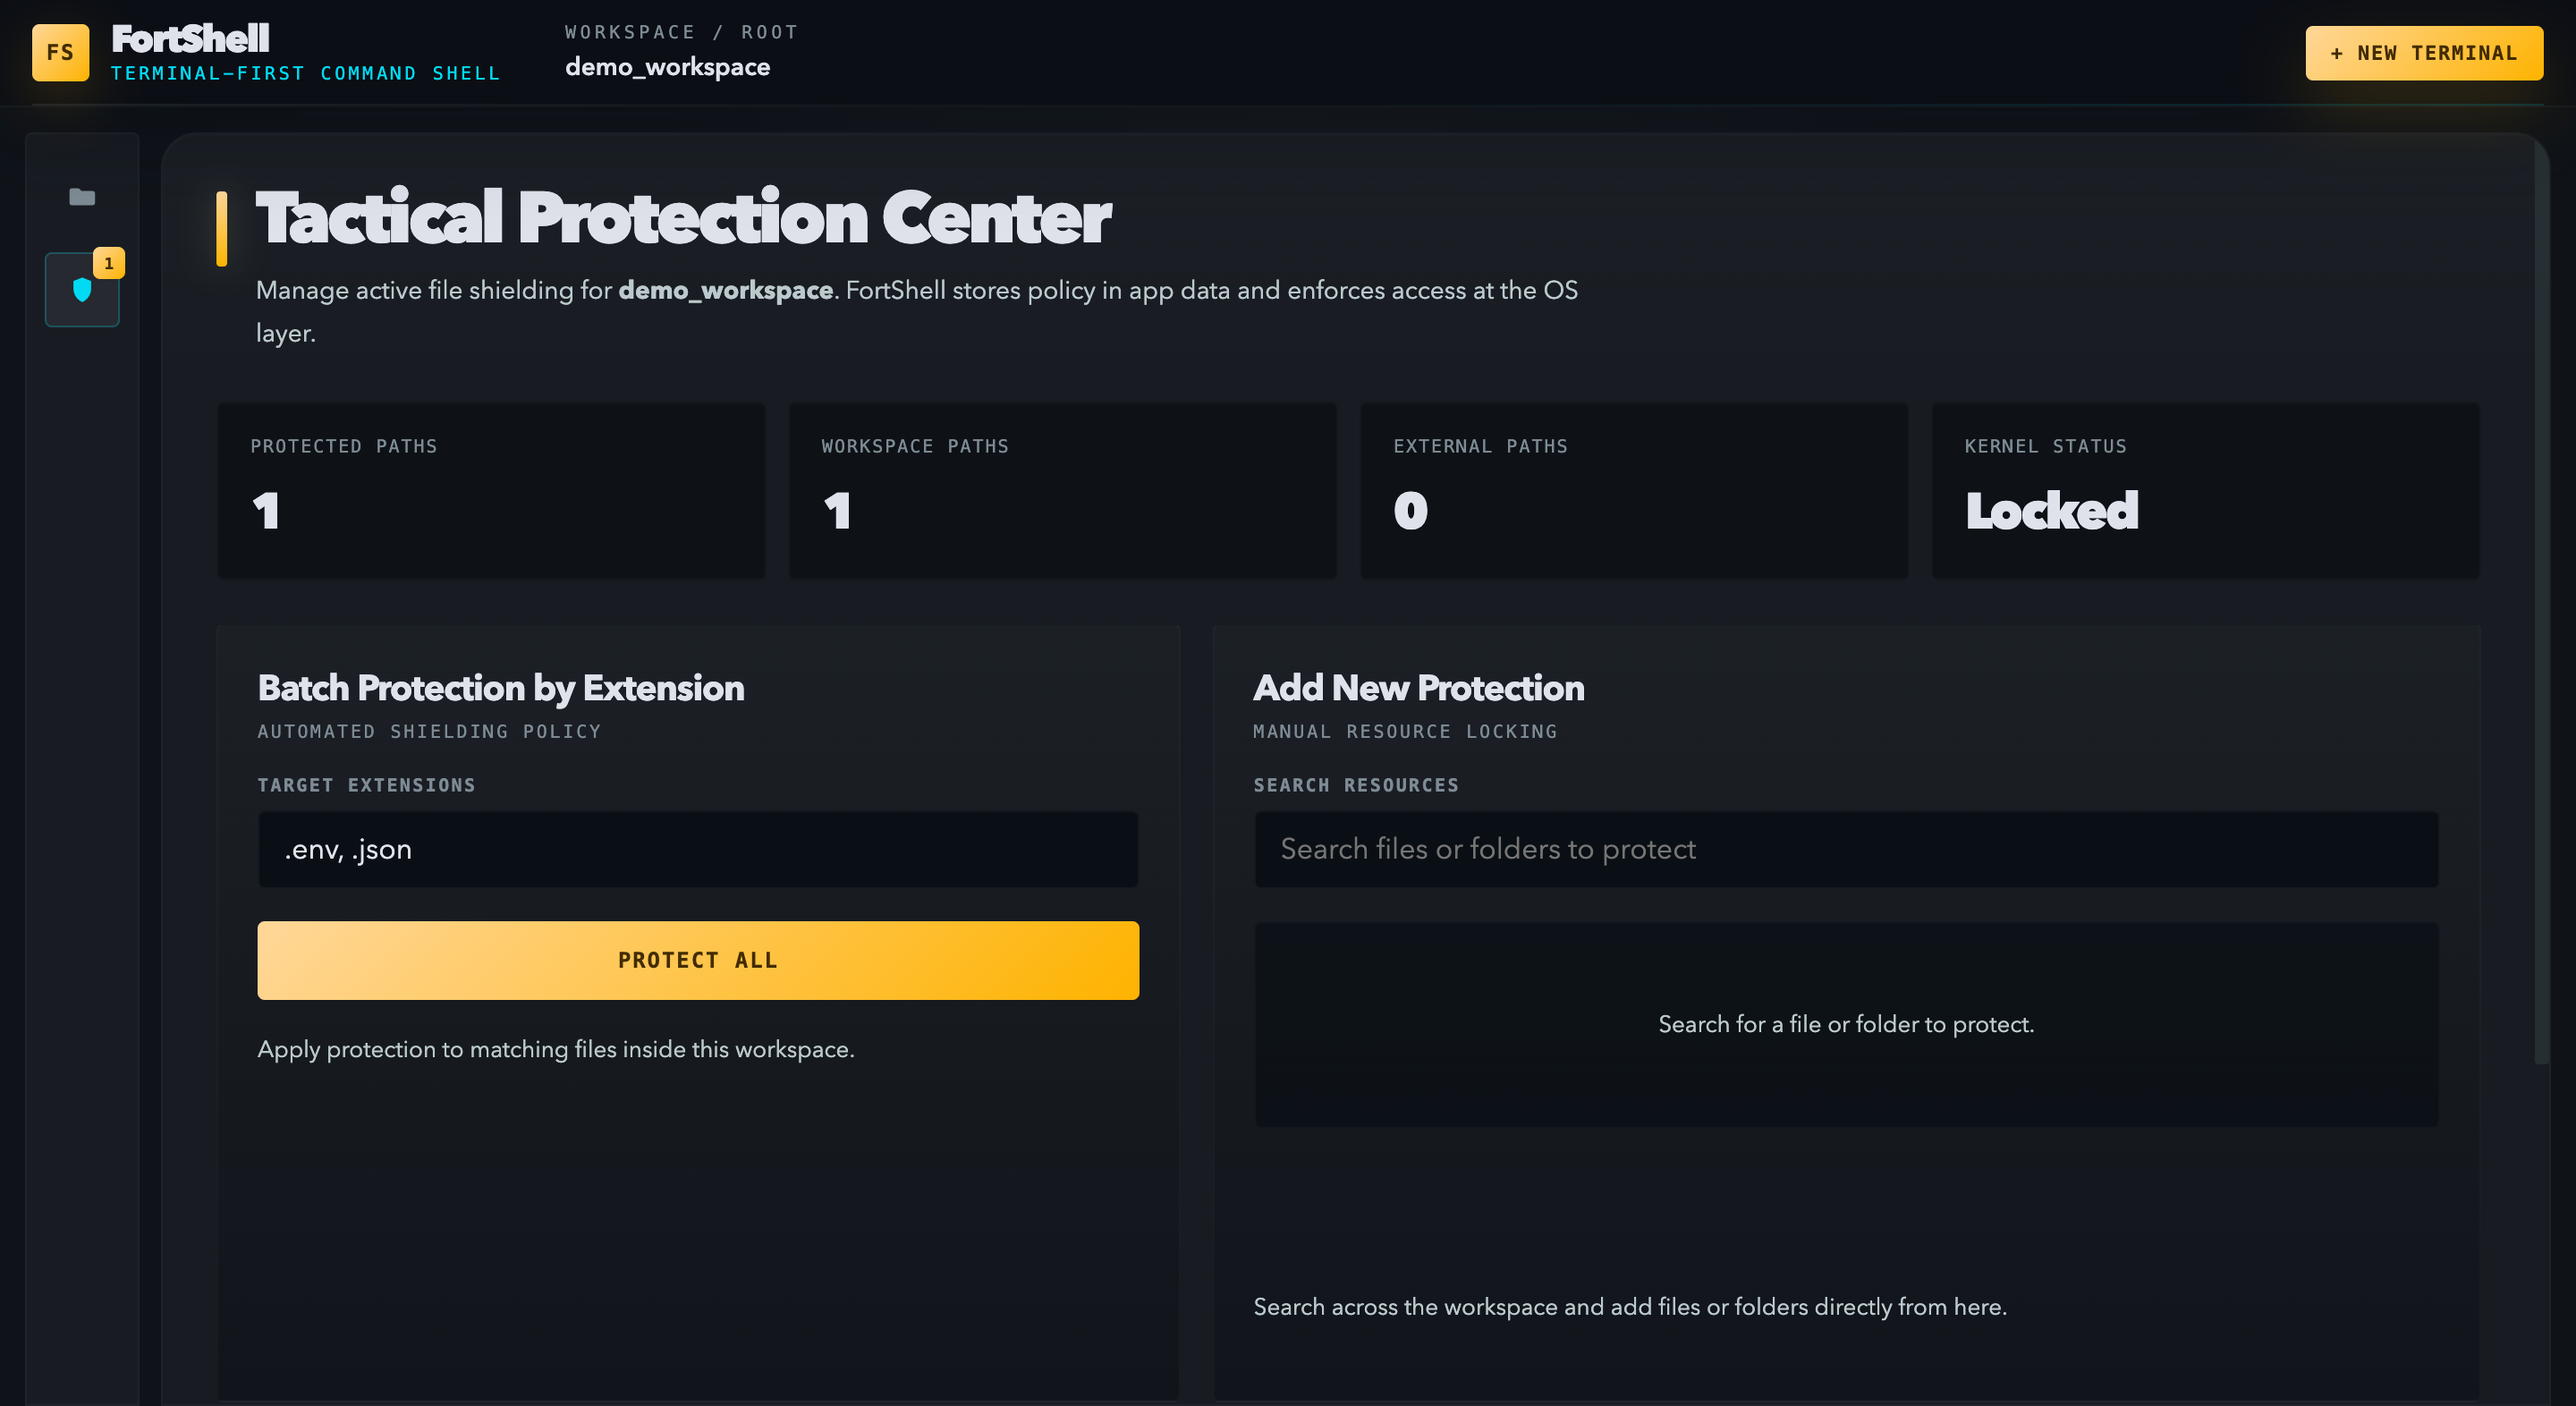
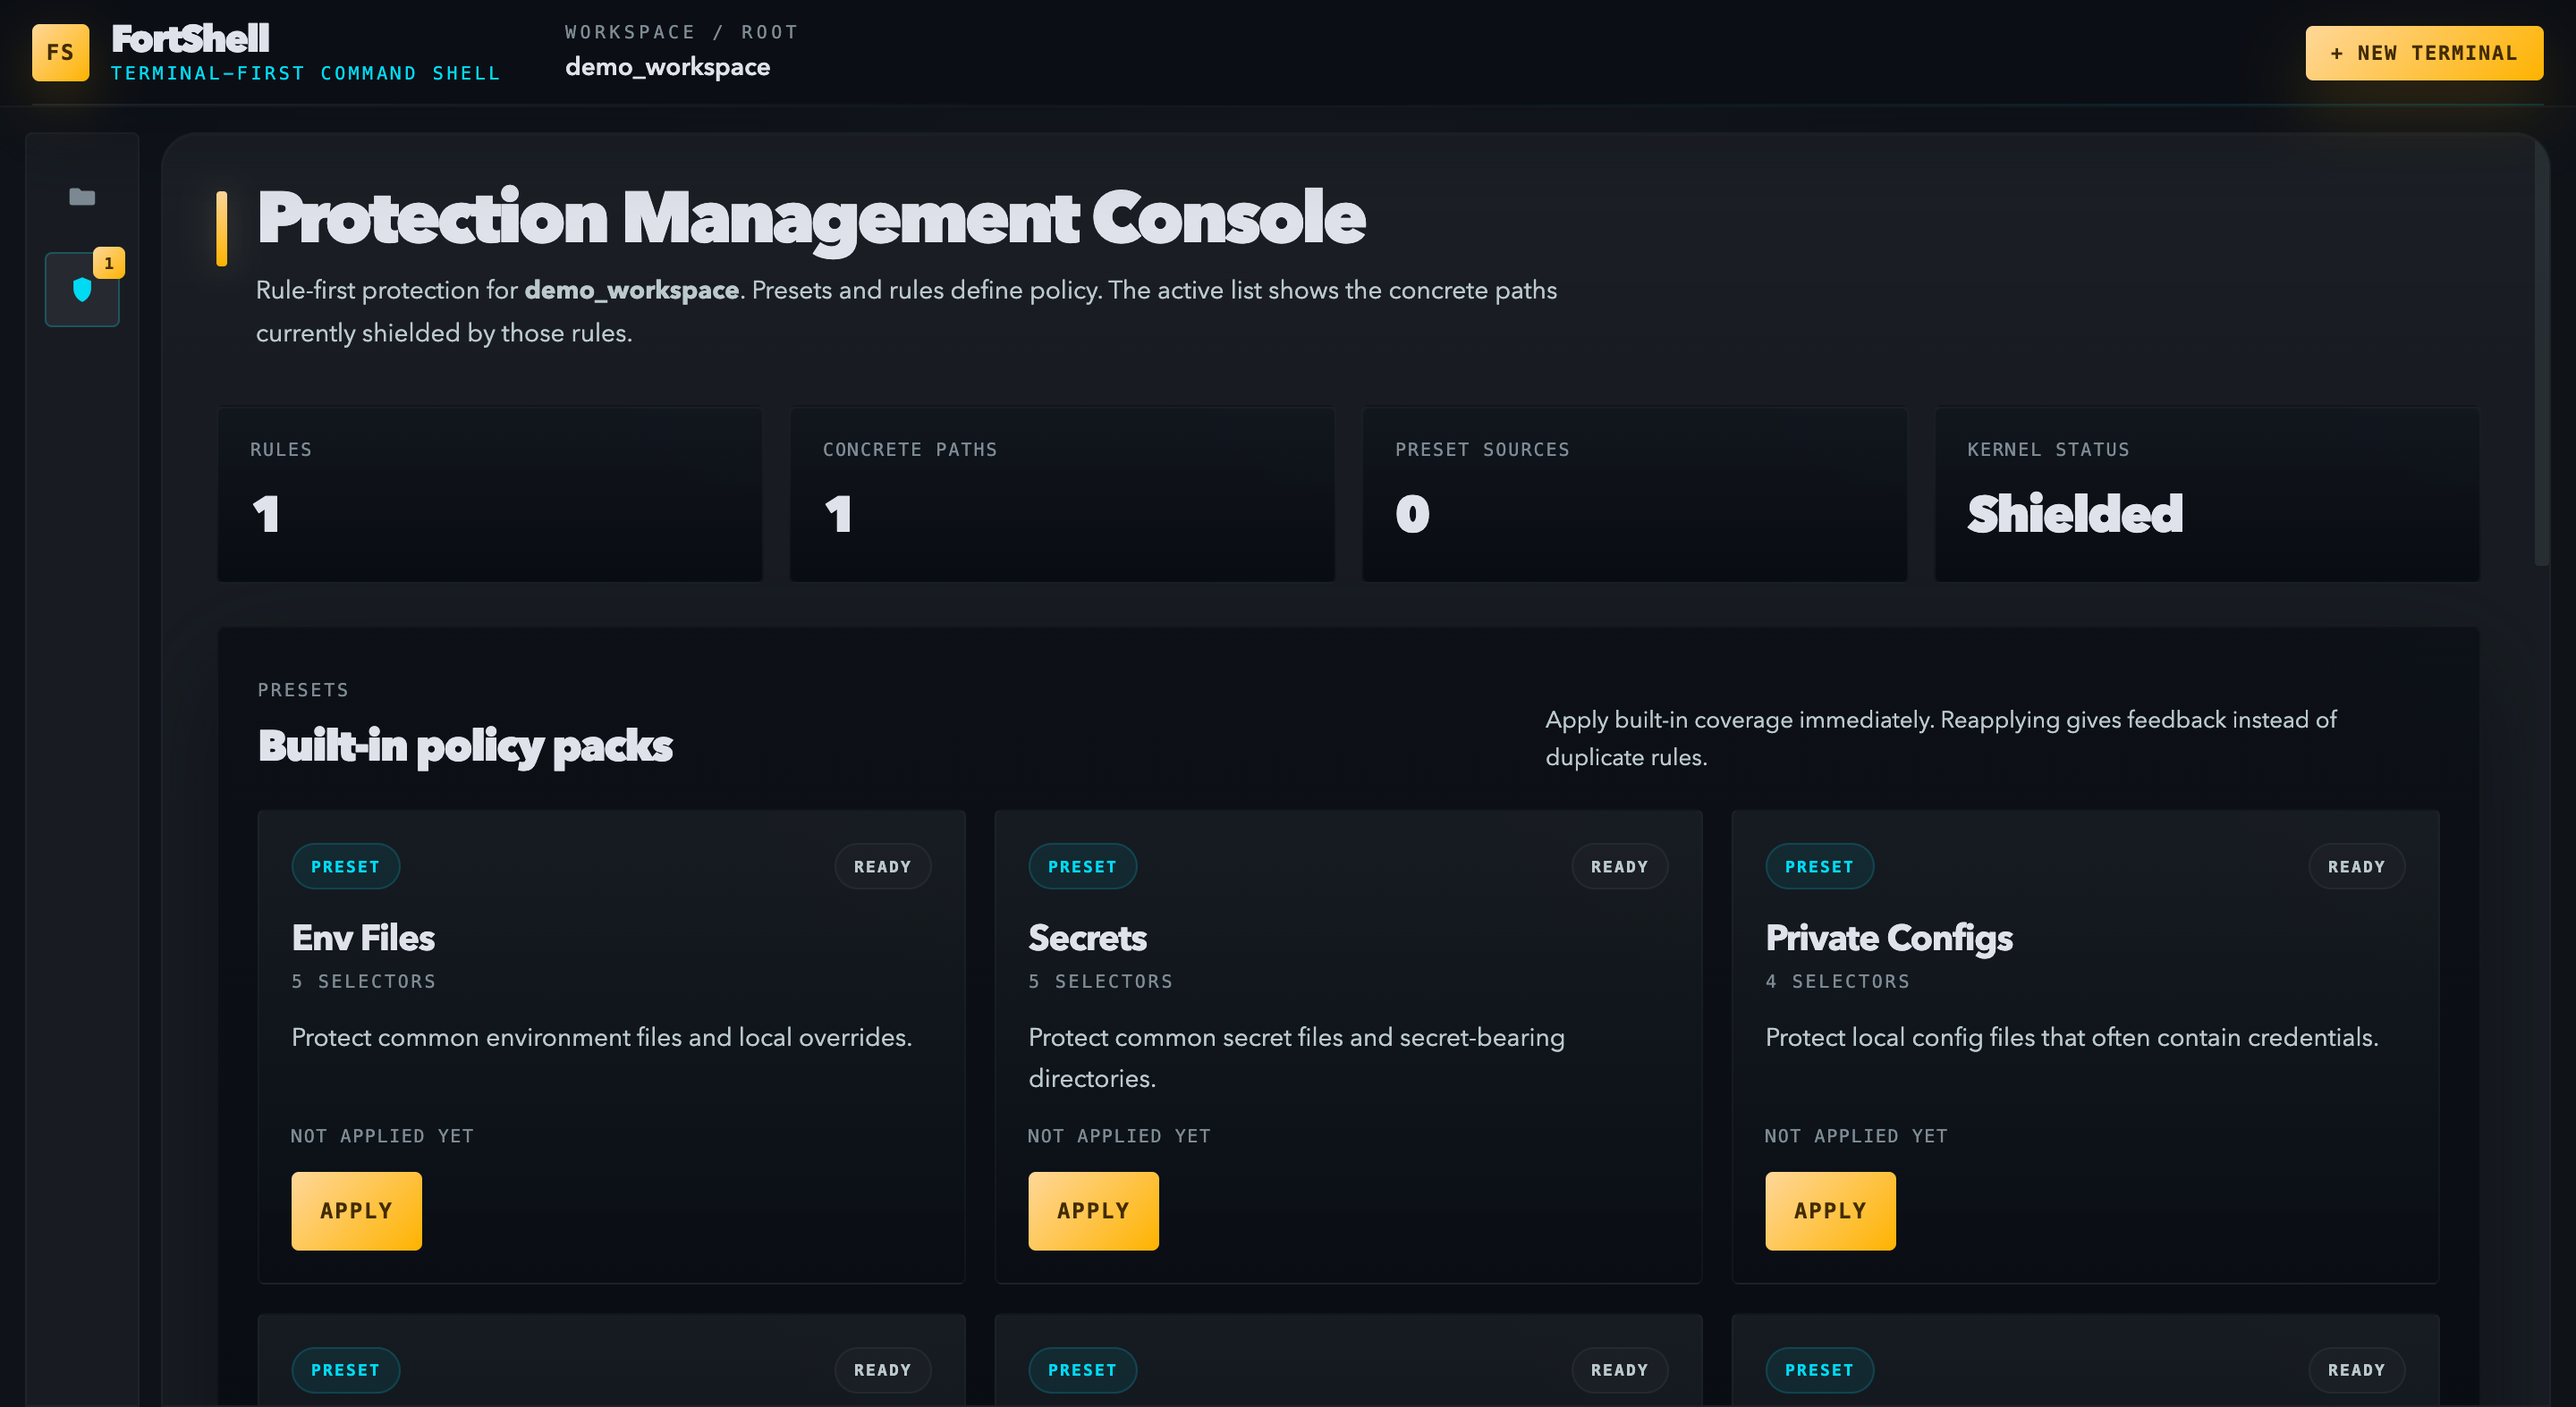
docs: refresh readme for phase 1 and 2

diff --git a/README.md b/README.md
@@ -1,6 +1,6 @@
 # FortShell
 
-A terminal-first IDE for managing multiple AI CLI tools (Claude Code, Codex CLI, Gemini CLI, etc.) with **kernel-level file protection**.
+A terminal-first protected workspace for running AI CLI coding agents (Claude Code, Codex CLI, Gemini CLI, etc.) with **kernel-level file protection**.
 
 Protect sensitive files from AI agents — they can see the files exist, but can't read or write them. Enforced by the macOS kernel, not by the app. No admin privileges required.
 
@@ -20,7 +20,7 @@ When you use AI coding assistants in a terminal, they can read and modify any fi
 
 1. Open your project folder
 2. Right-click sensitive files (credentials, .env, proprietary code) → **Protect**
-3. Open AI CLI terminals — they run inside a macOS sandbox
+3. Start AI CLI sessions — they run inside a macOS sandbox
 4. Protected files return `Operation not permitted` — the AI adapts and works around them
 
 ```
@@ -36,6 +36,7 @@ PermissionError: [Errno 1] Operation not permitted: '.env'
 ### Terminal Management
 - **Multi-terminal tabs** — run multiple AI CLIs side by side
 - **Split layouts** — horizontal, vertical, 2-column grid
+- **Session trust state** — protected, unprotected, stale, fallback, and launch-failed states are surfaced in the UI
 - **Shell profiles** — auto-detects zsh, bash, fish + add custom shells (node, python3, etc.)
 - **xterm.js** rendering with full color, resize, and interactive program support
 
@@ -44,7 +45,7 @@ PermissionError: [Errno 1] Operation not permitted: '.env'
 - **Per-file or per-folder** — protect individual files or entire directories
 - **User-local policy storage** — protection rules live in FortShell app data, not in your repo
 - **Transparent to the user** — protected files show a lock icon in the file tree
-- **Protection Center** — review active protections, batch-protect by extension, and add new protected paths from a dedicated dashboard
+- **Protection Center** — apply built-in policy packs, add extension rules, add direct path rules, and inspect the compiled concrete paths currently shielded
 - **Cannot be bypassed** by the sandboxed process — not even with python, node, or symlinks
 
 | Access method | Blocked? |
@@ -136,8 +137,9 @@ $ python3 -c "open('.env').read()"
 PermissionError: [Errno 1] Operation not permitted: '.env'
 ```
 
-5. Open **Protection** from the left rail to review, batch-add, or remove protected paths
-6. To remove protection from Explorer: right-click → **Remove Protection**
+5. Open **Protection** from the left rail to apply presets, add extension rules, or inspect the compiled active list
+6. Direct rules can be removed from Explorer with **Remove Protection**
+7. Rule-generated protections show **View Protection** in Explorer and should be managed from **Protection**
 
 ### Settings
 
